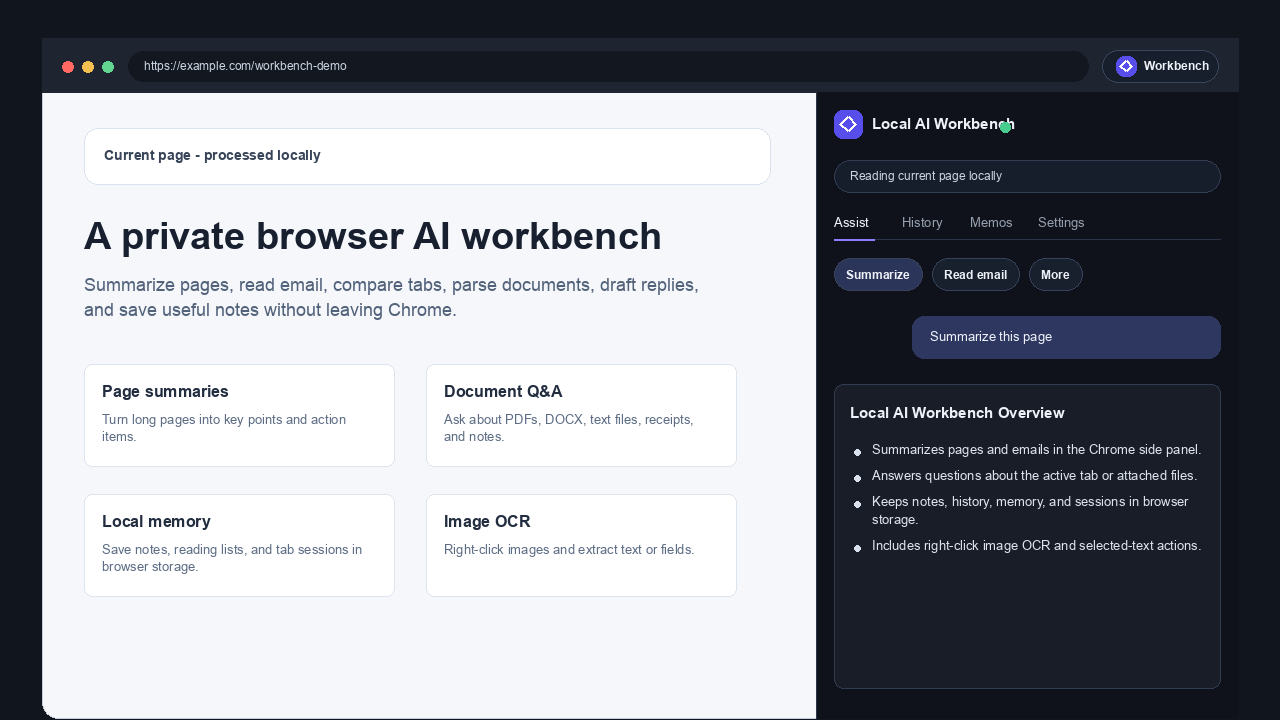
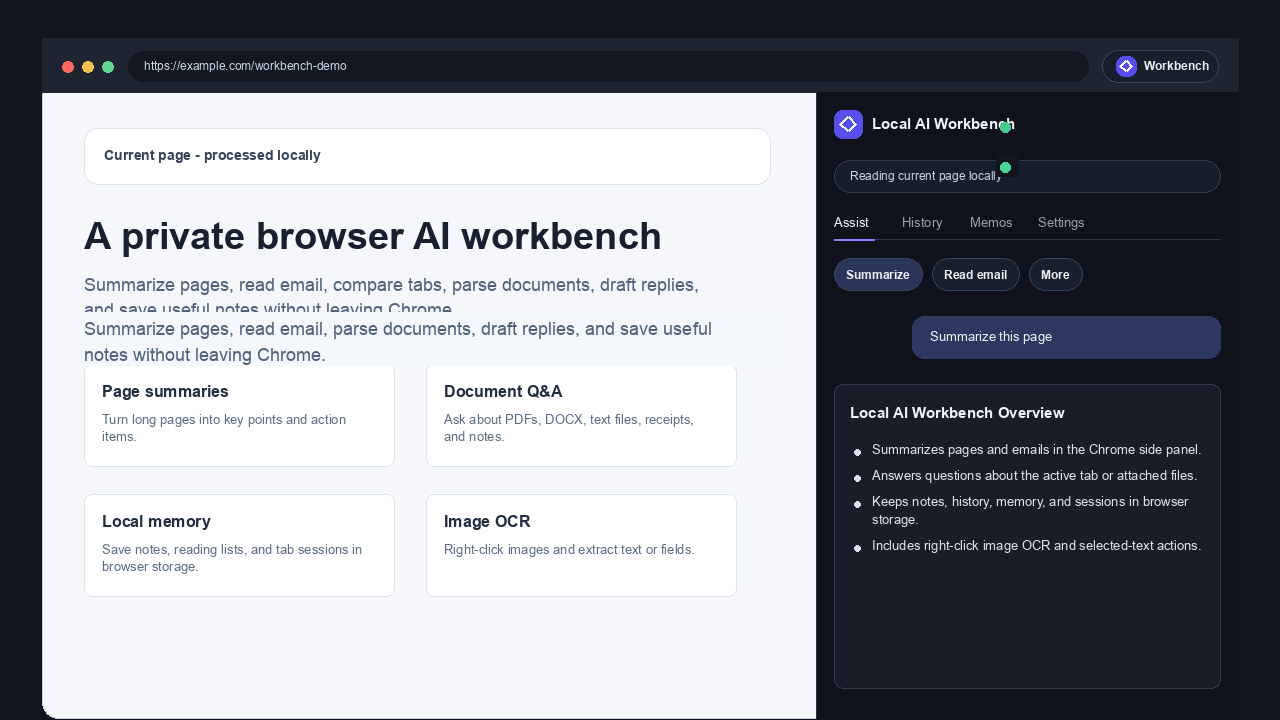
Remove broad host permissions for store submission

Changed region(s): [[0.0625, 0.4278, 0.5625, 0.5194], [0.7812, 0.2139, 0.8125, 0.2444]]

diff --git a/STORE_LISTING_DRAFT.md b/STORE_LISTING_DRAFT.md
@@ -23,7 +23,7 @@ Local AI Workbench is an on-device AI side panel for Chrome that helps users und
 
 Local AI Workbench brings Chrome's built-in on-device AI into a practical side-panel workspace.
 
-Use it to summarize articles and emails, ask questions about the current page, compare multiple tabs, attach local documents, extract details from images, draft or rewrite text, save private work memory, and export useful answers.
+Use it to summarize articles and emails, ask questions about the current page, attach local documents, extract details from images, draft or rewrite text, save private work memory, and export useful answers.
 
 The extension is built for local-first use. It has no developer-operated server, no analytics, no telemetry, and no advertising. Conversation history, memos, reading lists, saved sessions, preferences, and work memory are stored locally in the browser.
 
@@ -38,22 +38,19 @@ Displays the extension's main workbench interface in Chrome's side panel.
 Stores user preferences, conversation history, local work memory, voice memo text, reading list items, saved tab sessions, and page logs locally in the browser.
 
 **activeTab**  
-Lets the extension read the active page only when the user opens or uses the workbench for that page.
+Lets the extension read the active page only after the user opens or uses the workbench for that page. This avoids requesting broad all-site host access in the first store submission.
 
 **scripting**  
 Injects short page-reading scripts into pages the user chooses so the side panel can summarize page text, selected text, emails, links, products, and safety signals.
 
 **tabs**  
-Supports multi-tab summarize/compare, reading selected open tabs, opening user-requested research/calendar/setup pages, and reopening saved tab sessions.
+Supports listing the current window's tabs for user-triggered tab cleanup, opening user-requested calendar/setup pages, and reopening saved tab sessions.
 
 **tabGroups**  
 Supports the user-triggered tab cleanup feature that groups related open tabs.
 
 **contextMenus**  
 Adds right-click actions for selected text and images: "Ask Local AI" and "Extract details from image".
-
-**host permissions: `http://*/*` and `https://*/*`**  
-Needed to read user-selected web pages across normal websites for summarization, email reading, tab comparison, link/product extraction, image extraction, and site-safety checks.
 
 **optional history**  
 Requested only if the user chooses the "Clear recent history" command. It is used only to delete the last 24 hours of browsing history after explicit confirmation.
@@ -62,7 +59,7 @@ Requested only if the user chooses the "Clear recent history" command. It is use
 
 - No developer-operated data collection.
 - No analytics, advertising, tracking, sale, or transfer of user data.
-- Page/email/document content is processed locally for the requested feature.
+- Page/email/document content is processed locally for the requested feature after the user opens or invokes the workbench on the active page.
 - Local data is stored in IndexedDB or `chrome.storage.local`.
 - Deep research opens normal web pages selected by the user flow.
 - Voice input may use Chrome's Web Speech API.

diff --git a/README.md b/README.md
@@ -1,15 +1,17 @@
 # Local AI Workbench
 
-A Chrome side-panel workbench for Chrome's built-in on-device AI. It helps summarize pages and email, answer questions about the active tab, compare open tabs, parse attached documents, draft text, extract image details, save local notes, and manage private work memory.
+A Chrome side-panel workbench for Chrome's built-in on-device AI. It helps summarize pages and email, answer questions about the active tab, parse attached documents, draft text, extract image details, save local notes, and manage private work memory.
 
 The extension is designed around local processing: prompts run through Chrome's built-in AI APIs, and notes/history are stored in the browser with IndexedDB or `chrome.storage.local`.
+
+The first Chrome Web Store package uses `activeTab` instead of broad required host permissions, so page reading is triggered by the user's action on the active tab.
 
 ## Features
 
 - On-device page, article, and Gmail/Outlook email summarization.
 - Ask questions about the active tab or an attached document.
 - Parse local text, Markdown, CSV, JSON, PDF, DOCX, and image files.
-- Compare and summarize multiple open tabs.
+- Save, reopen, and tidy browser tab sessions.
 - Right-click selected text to ask Local AI, or right-click an image to extract text/details.
 - Voice input and voice memos through Chrome's Web Speech API.
 - Local conversation history, work memory, reading list, page log, and saved tab sessions.

diff --git a/PRIVACY.md b/PRIVACY.md
@@ -30,9 +30,9 @@ These are **user-initiated** and clearly labelled in the app. The extension stil
 ## Permissions and why they're used
 
 - `sidePanel` — show the side-panel interface.
-- `activeTab`, `scripting`, `host_permissions` (http/https) — read the text of the page you ask it to act on, and run on-page actions you trigger (extract products, gather links, find the cart button).
+- `activeTab`, `scripting` — read the active page only after you open or use the workbench for that page, and run on-page actions you trigger (extract products, gather links, find the cart button).
 - `storage` — save your notes, memory, persona, and preferences locally.
-- `tabs`, `tabGroups` — multi-tab summarize/compare and tidy/group tabs.
+- `tabs`, `tabGroups` — list, save, reopen, and tidy/group tabs when you trigger those actions.
 - `contextMenus` — the right-click "Ask Local AI" / "Extract from image" actions.
 - Optional `history` — only requested if you use "Clear recent history"; used solely to clear, never to read or transmit your history.
 